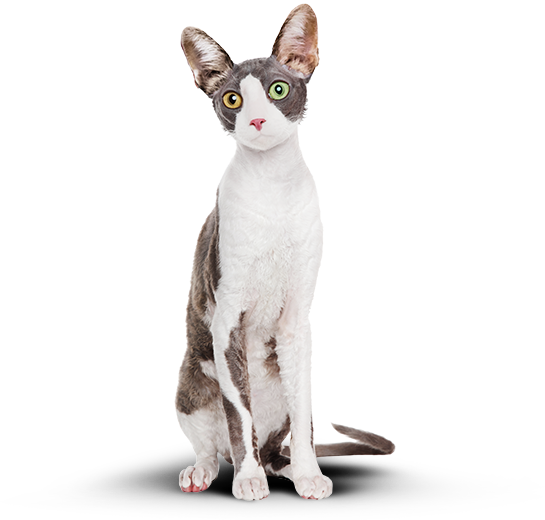
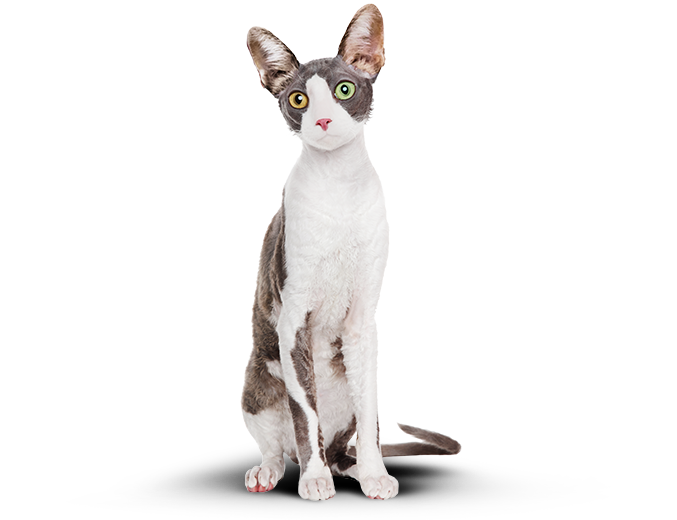
Добавил range

Changed region(s): [[0.1872, 0.0, 0.7486, 0.9846], [0.5615, 0.4615, 0.5927, 0.5846], [0.4991, 0.5846, 0.5303, 0.6154]]

diff --git a/source/sass/blocks/liveview.scss b/source/sass/blocks/liveview.scss
@@ -61,17 +61,55 @@
   width: 311px;
 
   @media (min-width: $tablet-width) {
-    width: 708px;
-  }
-
-  @media (min-width: $desktop-width) {
-    width: 690px;
+    width: 677px;
   }
 }
 
-.liveview__cats-wrapper img {
+.liveview__cats-wrapper {
   display: block;
   margin: auto;
+}
+
+.liveview__cats-wrapper--skinny {
+  width: 311px;
+  margin-left: auto;
+  margin-right: auto;
+  left: 0;
+  right: 0;
+  position: relative;
+
+  @media (min-width: $tablet-width) {
+    width: 677px;
+  }
+}
+
+.liveview__divisor {
+  background-image: url("../img/cat-skinny-small.png"), linear-gradient(180deg, #eaeaea 0%, #eaeaea 100%);
+  background-size: cover;
+  position: absolute;
+  bottom: 10px;
+  left: 0;
+  max-width: 311px;
+  height: 240px;
+
+  @media (min-width: $tablet-width) {
+    background-image: url("../img/cat-skinny.png"), linear-gradient(180deg, #ffffff 0%, #ffffff 183px, #eaeaea 183px, #eaeaea 100%);
+    bottom: 22px;
+    left: 0;
+    background-size: cover;
+    max-width: 677px;
+    overflow: hidden;
+    height: 520px;
+  }
+
+  @media (min-width: $desktop-width) {
+    background-image: url("../img/cat-skinny.png"), linear-gradient(180deg, #ffffff 0%, #ffffff 188px, #eaeaea 188px, #eaeaea 100%);
+    background-size: cover;
+    width: 100%;
+    overflow: hidden;
+    bottom: 4px;
+    left: 22px;
+  }
 }
 
 .liveview__section {
@@ -170,13 +208,14 @@
     display: flex;
     flex-direction: column;
     justify-content: center;
-    padding-top: 20px;
+    padding-top: 10px;
   }
 
   @media (min-width: $desktop-width) {
     flex-direction: row;
     justify-content: flex-start;
     padding-bottom: 55px;
+    padding-top: 20px;
   }
 }
 
@@ -221,7 +260,7 @@
 
   @media (min-width: $desktop-width) {
     padding-bottom: 40px;
-    bottom: 7px;
+    bottom: -118px;
     left: 53%;
   }
 }
@@ -233,79 +272,127 @@
 
   @media (min-width: $tablet-width) {
     @include font-size(20px, 29px);
-    padding: 0 24px 0 21px;
+    padding: 0 21px 0 21px;
   }
 }
 
-.liveview__line {
-  @media (max-width: $mobile-width-only) {
-    @include size(84px, 14px);
-    background-color: $basic-white;
-    border: 1px solid $special-grey;
-    box-sizing: border-box;
-    border-radius: 6px;
-    position: relative;
-    margin: 0 2px 0 2px;
-  }
-
-  @include size(428px, 6px);
-  background-color: $special-grey;
-  border: 1px solid $special-grey;
-  box-sizing: border-box;
-  border-radius: 6px;
-  position: relative;
-}
 
 .liveview__drag-slider {
   padding-top: 20px;
   position: relative;
 
   @media (min-width: $tablet-width) {
-    background: linear-gradient(180deg, $basic-white 0%, $basic-white 36%, $section-grey 36%, $section-grey 100%);
-    padding-top: 47px;
-    padding-bottom: 33px;
+    background: linear-gradient(180deg, $basic-white 0%, $basic-white 34%, $section-grey 34%, $section-grey 100%);
+    padding-top: 54px;
+    padding-bottom: 88px;
   }
 
   @media (min-width: $desktop-width) {
+    /* background: linear-gradient(180deg, $basic-white 0%, $basic-white 36%, $section-grey 36%, $section-grey 100%); */
     background: none;
     padding-top: 0;
     padding-bottom: 0;
-    bottom: -10px;
     position: absolute;
-    left: 680px;
+    bottom: 118px;
+    left: 685px;
   }
 }
 
+
 .liveview__drag {
+  cursor: pointer;
+
   @media (max-width: $mobile-width-only) {
-    @include size(35px, 6px);
-    background-color: $basic-green;
-    box-sizing: border-box;
-    border-radius: 6px;
-    position: absolute;
-    top: 3px;
-    left: 10px;
+    width: 76px;
   }
 
   @media (min-width: $tablet-width) {
-    @include size(32px, 32px);
-    filter: drop-shadow(0 1px 3px $basic-shadow);
-    border-radius: 50%;
-    background-color: $basic-white;
-    box-sizing: border-box;
-    position: absolute;
-    top: -15px;
-    left: 199px;
+    width: 428px;
+  }
 
-    &::before {
-      @include size(8px, 8px);
-      content: "";
-      background-color: $basic-green;
-      box-sizing: border-box;
-      border-radius: 50%;
+  position: relative;
+  left: -3px;
+  width: 428px;
+  background: transparent;
+  --webkit-appearance: none;
+  --moz-appearance: none;
+
+  &::-webkit-slider-thumb {
+    --webkit-appearance: none;
+  }
+
+  &:focus {
+    outline: none;
+  }
+
+  &:active {
+    border: none;
+    outline: none;
+  }
+
+  &::-ms-track {
+    width: 100%;
+    cursor: pointer;
+    background: transparent;
+    border-color: transparent;
+    color: transparent;
+  }
+
+  &::-moz-range-thumb,
+  &::-webkit-slider-thumb {
+    border: none;
+
+    @media (max-width: $mobile-width-only) {
+      @include size(35px, 6px);
+      display: block;
+      background: url("../img/slider-control-small.svg");
+      background-size: 35px 6px;
       position: absolute;
-      left: 13px;
-      top: 13px;
+      top: 3px;
+      left: 10px;
     }
+
+    @media (min-width: $tablet-width) {
+      @include size(34px, 34px);
+      display: block;
+      background: url("../img/slider-control.svg");
+      filter: drop-shadow(0 1px 3px $basic-shadow);
+      background-size: 34px 34px;
+      border-radius: 50%;
+      box-sizing: border-box;
+      position: absolute;
+      top: -15px;
+      left: 199px;
+    }
+  }
+
+  &:active::-moz-range-thumb,
+  &:active::-webkit-slider-thumb,
+  &:focus::-moz-range-thumb,
+  &:focus::-webkit-slider-thumb {
+    @media (min-width: $tablet-width) {
+      border: 1px $basic-green solid;
+    }
+  }
+
+
+  &::-moz-range-track,
+  &::-webkit-slider-runnable-track {
+    @media (max-width: $mobile-width-only) {
+      @include size(84px, 14px);
+      background-color: $basic-white;
+      border: 1px solid $special-grey;
+      box-sizing: border-box;
+      border-radius: 6px;
+      position: relative;
+      margin: 0 2px 0 2px;
+    }
+
+    @include size(428px, 6px);
+    background-color: $special-grey;
+    border: 1px solid $special-grey;
+    box-sizing: border-box;
+    border-radius: 6px;
+    position: relative;
   }
 }

diff --git a/source/index.html b/source/index.html
@@ -155,23 +155,28 @@
         </div>
         <div class="liveview__drag-slider">
           <div class="liveview__cats">
-            <div class="liveview__cats-wrapper liveview__cats-wrapper--fat">
-              <picture>
-                <source media="(min-width: 1440px)" srcset="img/cat-desktop.webp 1x, img/cat-desktop@2x.webp 2x"
+            <div class="liveview__cats-wrapper">
+              <picture class="liveview__cats-wrapper--fat">
+                <!-- <source media="(min-width: 1440px)" srcset="img/cat-desktop.webp 1x, img/cat-desktop@2x.webp 2x"
                   type="img/webp">
-                <source media="(min-width: 1440px)" srcset="img/cat-desktop.png 1x, img/cat-desktop@2x.png 2x">
-                <source media="(min-width: 768px)" srcset="img/cat-tablet.webp 1x, img/cat-tablet@2x.webp 2x"
-                  type="img/webp">
-                <source media="(min-width: 768px)" srcset="img/cat-tablet.png 1x, img/cat-tablet@2x.png 2x">
-                <source srcset="img/img/cat-fat.webp 1x, img/img/cat-fat@2x.webp 2x" type="img/webp">
-                <img src="img/cat-fat.png" srcset="img/cat-fat@2x.png 2x" alt="Был Жирный кот" width="311" height="232">
+                <source media="(min-width: 1440px)" srcset="img/cat-desktop.png 1x, img/cat-desktop@2x.png 2x"> -->
+                <!-- <source media="(min-width: 768px)" srcset="img/cat-fat.webp 1x, img/cat-fat@2x.webp 2x"
+                  type="img/webp"> -->
+                <source media="(min-width: 768px)" srcset="img/cat-fat.png 1x, img/cat-fat@2x.png 2x">
+                <!--   <source srcset="img/img/cat-fat-small.webp 1x, img/img/cat-fat-small@2x.webp 2x" type="img/webp"> -->
+                <img src="img/cat-fat-small.png" srcset="img/cat-fat-small@2x.png 2x" alt="Был Жирный кот" width="311"
+                  height="232">
               </picture>
+              <figure class="liveview__cats-wrapper--skinny">
+                <div class="liveview__divisor" id="compare"></div>
+              </figure>
             </div>
           </div>
           <div class="liveview__compare">
             <p>Было</p>
             <div class="liveview__line">
-              <div class="liveview__drag"></div>
+              <input class="liveview__drag" type="range" min="0" max="98" value="0" id="slider" oninput="beforeAfter()"
+                onchange="beforeAfter()">
             </div>
             <p>Стало</p>
           </div>

diff --git a/source/js/script.js b/source/js/script.js
@@ -32,3 +32,8 @@ navToggle.addEventListener('click', function () {
   }
 }
 )
+
+function beforeAfter() {
+  document.querySelector('.liveview__divisor').style.width = document.querySelector('.liveview__drag').value + "%";
+  console.log(document.querySelector('.liveview__drag').value + "%");
+}
